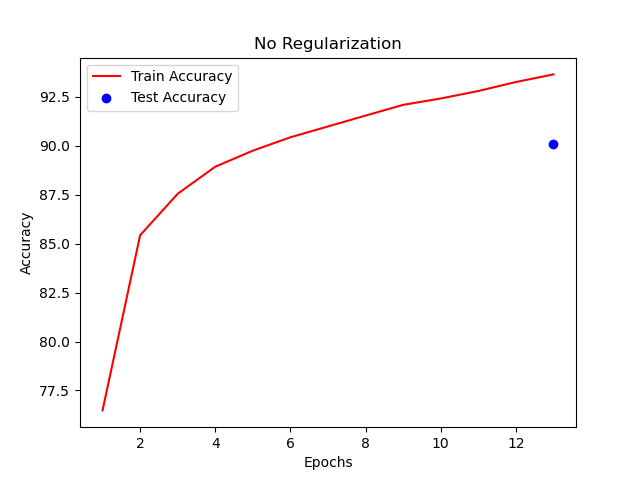
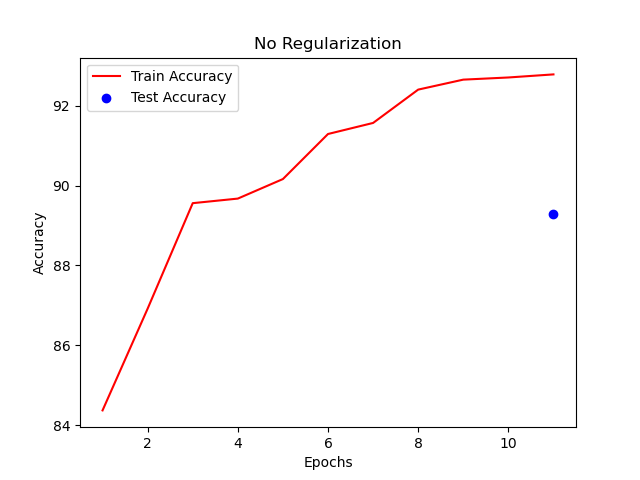
update

diff --git a/Lenet5/main.py b/Lenet5/main.py
@@ -39,16 +39,28 @@ def train(train_loader, val_loader, technique='none', weight_decay=0):
             optimizer.step()  
 
             running_loss += loss.item()
-            _, predicted = torch.max(outputs.data, 1)  
-            total += labels.size(0)
-            correct += (predicted == labels).sum().item()
+            # _, predicted = torch.max(outputs.data, 1)  
+            # total += labels.size(0)
+            # correct += (predicted == labels).sum().item()
+
+        # train_acc = 100 * correct / total
+        # train_accuracies.append(train_acc)
+
+        # print(f"Epoch {epoch + 1}, Train Loss: {running_loss / len(train_loader)}, Train Accuracy: {train_acc}%")
+
+        model.eval()
+        with torch.no_grad():  # No gradients needed for accuracy calculation
+            for data in train_loader:
+                inputs, labels = data
+                outputs = model(inputs)  # Forward pass
+                _, predicted = torch.max(outputs.data, 1)
+                total += labels.size(0)
+                correct += (predicted == labels).sum().item()
 
         train_acc = 100 * correct / total
         train_accuracies.append(train_acc)
-
         print(f"Epoch {epoch + 1}, Train Loss: {running_loss / len(train_loader)}, Train Accuracy: {train_acc}%")
 
-        model.eval()
         correct = 0
         total = 0
         val_loss = 0.0
